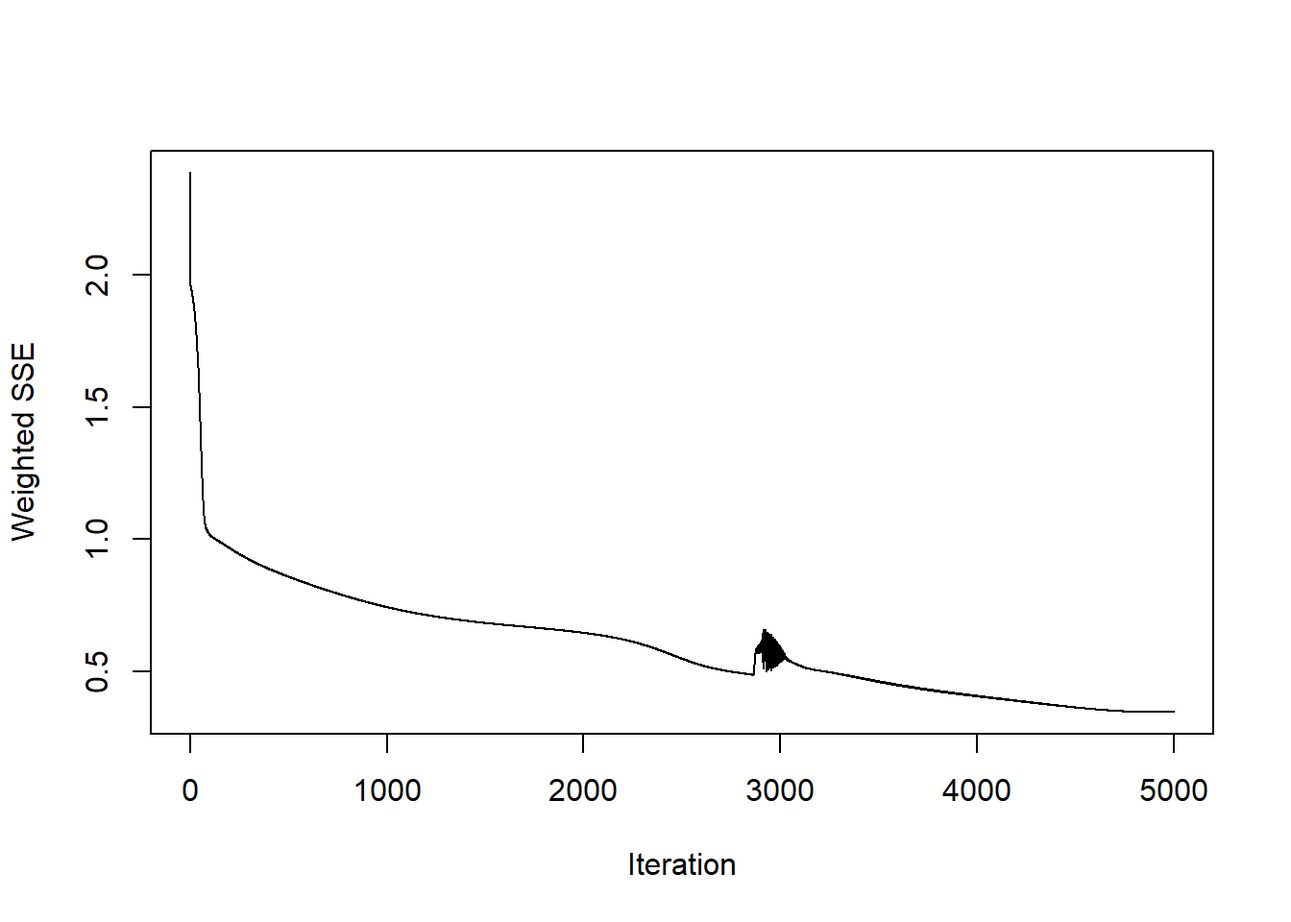
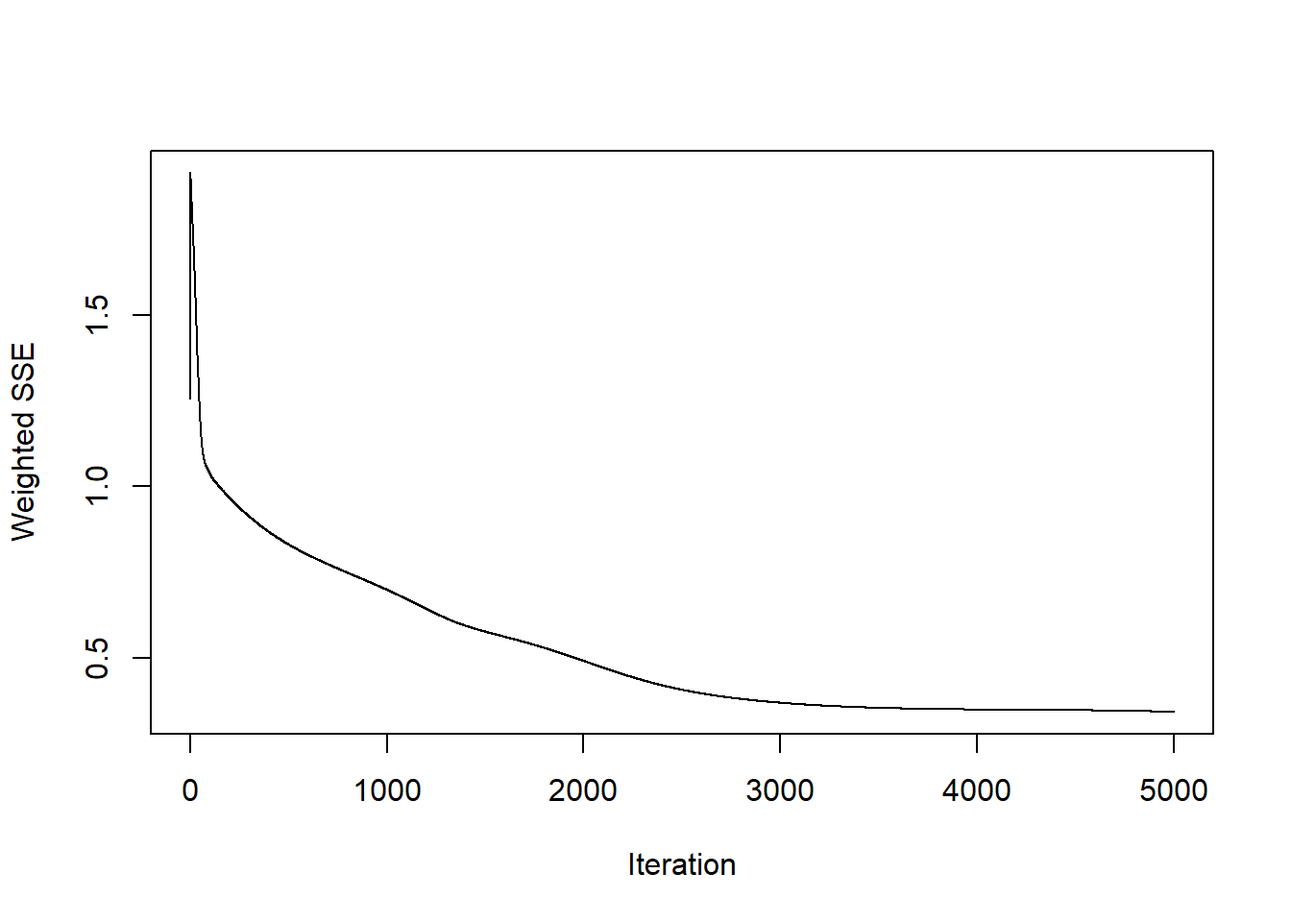
Last 10

diff --git a/docs/creacion-y-exproracion-de-serie-de-tiempo.html b/docs/creacion-y-exproracion-de-serie-de-tiempo.html
@@ -251,29 +251,29 @@ code span.wa { color: #60a0b0; font-weight: bold; font-style: italic; } /* Warni
 </ul>
 <div id="visualizacion-de-ts" class="section level3 hasAnchor" number="3.0.1">
 <h3><span class="header-section-number">3.0.1</span> - <em>Visualizacion de TS</em><a href="creacion-y-exproracion-de-serie-de-tiempo.html#visualizacion-de-ts" class="anchor-section" aria-label="Anchor link to header"></a></h3>
-<div class="plotly html-widget html-fill-item" id="htmlwidget-1c8d0c5e2c9ef5bb05f1" style="width:672px;height:480px;"></div>
-<script type="application/json" data-for="htmlwidget-1c8d0c5e2c9ef5bb05f1">{"x":{"visdat":{"618842e01314":["function () ","plotlyVisDat"]},"cur_data":"618842e01314","attrs":{"618842e01314":{"x":[2010,2010.0833333333333,2010.1666666666667,2010.25,2010.3333333333333,2010.4166666666667,2010.5,2010.5833333333333,2010.6666666666667,2010.75,2010.8333333333333,2010.9166666666667,2011,2011.0833333333333,2011.1666666666667,2011.25,2011.3333333333333,2011.4166666666667,2011.5,2011.5833333333333,2011.6666666666667,2011.75,2011.8333333333333,2011.9166666666667,2012,2012.0833333333333,2012.1666666666667,2012.25,2012.3333333333333,2012.4166666666667,2012.5,2012.5833333333333,2012.6666666666667,2012.75,2012.8333333333333,2012.9166666666667,2013,2013.0833333333333,2013.1666666666667,2013.25,2013.3333333333333,2013.4166666666667,2013.5,2013.5833333333333,2013.6666666666667,2013.75,2013.8333333333333,2013.9166666666667,2014,2014.0833333333333,2014.1666666666667,2014.25,2014.3333333333333,2014.4166666666667,2014.5,2014.5833333333333,2014.6666666666667,2014.75,2014.8333333333333,2014.9166666666667,2015,2015.0833333333333,2015.1666666666667,2015.25,2015.3333333333333,2015.4166666666667,2015.5,2015.5833333333333,2015.6666666666667,2015.75,2015.8333333333333,2015.9166666666667,2016,2016.0833333333333,2016.1666666666667,2016.25,2016.3333333333333,2016.4166666666667,2016.5,2016.5833333333333,2016.6666666666667,2016.75,2016.8333333333333,2016.9166666666667,2017,2017.0833333333333,2017.1666666666667,2017.25,2017.3333333333333,2017.4166666666667,2017.5,2017.5833333333333,2017.6666666666667,2017.75,2017.8333333333333,2017.9166666666667,2018,2018.0833333333333,2018.1666666666667,2018.25,2018.3333333333333,2018.4166666666667,2018.5,2018.5833333333333,2018.6666666666667,2018.75,2018.8333333333333,2018.9166666666667,2019,2019.0833333333333,2019.1666666666667,2019.25,2019.3333333333333,2019.4166666666667,2019.5,2019.5833333333333,2019.6666666666667,2019.75,2019.8333333333333,2019.9166666666667,2020,2020.0833333333333,2020.1666666666667,2020.25,2020.3333333333333,2020.4166666666667,2020.5,2020.5833333333333,2020.6666666666667,2020.75,2020.8333333333333,2020.9166666666667,2021,2021.0833333333333,2021.1666666666667,2021.25,2021.3333333333333,2021.4166666666667,2021.5,2021.5833333333333,2021.6666666666667,2021.75,2021.8333333333333,2021.9166666666667,2022,2022.0833333333333,2022.1666666666667,2022.25,2022.3333333333333,2022.4166666666667,2022.5,2022.5833333333333,2022.6666666666667,2022.75,2022.8333333333333,2022.9166666666667,2023,2023.0833333333333,2023.1666666666667,2023.25,2023.3333333333333,2023.4166666666667,2023.5,2023.5833333333333,2023.6666666666667,2023.75,2023.8333333333333,2023.9166666666667,2024],"y":[411,392,353,389,319,397,367,369,365,423,365,350,405,334,346,402,378,353,348,364,320,361,345,339,366,386,363,439,370,385,404,384,377,365,356,354,446,384,417,430,334,460,416,430,421,429,358,397,366,440,437,482,352,417,369,339,369,397,449,418,420,483,475,526,402,452,399,468,451,415,419,434,504,483,454,495,442,472,413,469,472,465,470,470,496,448,411,487,434,425,401,424,450,460,441,384,513,491,445,640,511,523,437,484,519,495,448,511,439,547,531,653,436,477,468,471,550,518,513,450,503,572,526,578,473,408,174,286,305,361,418,464,514,622,560,558,542,537,544,508,608,646,611,664,675,670,558,748,526,645,609,614,570,695,546,614,1131,675,711,679,1163,1130,1262,1177,1208,1264,576,628,630],"mode":"lines","line":{"color":"blue","width":2},"alpha_stroke":1,"sizes":[10,100],"spans":[1,20],"type":"scatter"}},"layout":{"margin":{"b":100,"l":100,"t":100,"r":100},"title":{"text":"Homicidios por mes en Colombia (2010 - 2024)","x":0.5},"xaxis":{"domain":[0,1],"automargin":true,"title":"Meses"},"yaxis":{"domain":[0,1],"automargin":true,"title":"Homicidios"},"hovermode":"closest","showlegend":false},"source":"A","config":{"modeBarButtonsToAdd":["hoverclosest","hovercompare"],"showSendToCloud":false},"data":[{"x":[2010,2010.0833333333333,2010.1666666666667,2010.25,2010.3333333333333,2010.4166666666667,2010.5,2010.5833333333333,2010.6666666666667,2010.75,2010.8333333333333,2010.9166666666667,2011,2011.0833333333333,2011.1666666666667,2011.25,2011.3333333333333,2011.4166666666667,2011.5,2011.5833333333333,2011.6666666666667,2011.75,2011.8333333333333,2011.9166666666667,2012,2012.0833333333333,2012.1666666666667,2012.25,2012.3333333333333,2012.4166666666667,2012.5,2012.5833333333333,2012.6666666666667,2012.75,2012.8333333333333,2012.9166666666667,2013,2013.0833333333333,2013.1666666666667,2013.25,2013.3333333333333,2013.4166666666667,2013.5,2013.5833333333333,2013.6666666666667,2013.75,2013.8333333333333,2013.9166666666667,2014,2014.0833333333333,2014.1666666666667,2014.25,2014.3333333333333,2014.4166666666667,2014.5,2014.5833333333333,2014.6666666666667,2014.75,2014.8333333333333,2014.9166666666667,2015,2015.0833333333333,2015.1666666666667,2015.25,2015.3333333333333,2015.4166666666667,2015.5,2015.5833333333333,2015.6666666666667,2015.75,2015.8333333333333,2015.9166666666667,2016,2016.0833333333333,2016.1666666666667,2016.25,2016.3333333333333,2016.4166666666667,2016.5,2016.5833333333333,2016.6666666666667,2016.75,2016.8333333333333,2016.9166666666667,2017,2017.0833333333333,2017.1666666666667,2017.25,2017.3333333333333,2017.4166666666667,2017.5,2017.5833333333333,2017.6666666666667,2017.75,2017.8333333333333,2017.9166666666667,2018,2018.0833333333333,2018.1666666666667,2018.25,2018.3333333333333,2018.4166666666667,2018.5,2018.5833333333333,2018.6666666666667,2018.75,2018.8333333333333,2018.9166666666667,2019,2019.0833333333333,2019.1666666666667,2019.25,2019.3333333333333,2019.4166666666667,2019.5,2019.5833333333333,2019.6666666666667,2019.75,2019.8333333333333,2019.9166666666667,2020,2020.0833333333333,2020.1666666666667,2020.25,2020.3333333333333,2020.4166666666667,2020.5,2020.5833333333333,2020.6666666666667,2020.75,2020.8333333333333,2020.9166666666667,2021,2021.0833333333333,2021.1666666666667,2021.25,2021.3333333333333,2021.4166666666667,2021.5,2021.5833333333333,2021.6666666666667,2021.75,2021.8333333333333,2021.9166666666667,2022,2022.0833333333333,2022.1666666666667,2022.25,2022.3333333333333,2022.4166666666667,2022.5,2022.5833333333333,2022.6666666666667,2022.75,2022.8333333333333,2022.9166666666667,2023,2023.0833333333333,2023.1666666666667,2023.25,2023.3333333333333,2023.4166666666667,2023.5,2023.5833333333333,2023.6666666666667,2023.75,2023.8333333333333,2023.9166666666667,2024],"y":[411,392,353,389,319,397,367,369,365,423,365,350,405,334,346,402,378,353,348,364,320,361,345,339,366,386,363,439,370,385,404,384,377,365,356,354,446,384,417,430,334,460,416,430,421,429,358,397,366,440,437,482,352,417,369,339,369,397,449,418,420,483,475,526,402,452,399,468,451,415,419,434,504,483,454,495,442,472,413,469,472,465,470,470,496,448,411,487,434,425,401,424,450,460,441,384,513,491,445,640,511,523,437,484,519,495,448,511,439,547,531,653,436,477,468,471,550,518,513,450,503,572,526,578,473,408,174,286,305,361,418,464,514,622,560,558,542,537,544,508,608,646,611,664,675,670,558,748,526,645,609,614,570,695,546,614,1131,675,711,679,1163,1130,1262,1177,1208,1264,576,628,630],"mode":"lines","line":{"color":"blue","width":2},"type":"scatter","marker":{"color":"rgba(31,119,180,1)","line":{"color":"rgba(31,119,180,1)"}},"error_y":{"color":"rgba(31,119,180,1)"},"error_x":{"color":"rgba(31,119,180,1)"},"xaxis":"x","yaxis":"y","frame":null}],"highlight":{"on":"plotly_click","persistent":false,"dynamic":false,"selectize":false,"opacityDim":0.20000000000000001,"selected":{"opacity":1},"debounce":0},"shinyEvents":["plotly_hover","plotly_click","plotly_selected","plotly_relayout","plotly_brushed","plotly_brushing","plotly_clickannotation","plotly_doubleclick","plotly_deselect","plotly_afterplot","plotly_sunburstclick"],"base_url":"https://plot.ly"},"evals":[],"jsHooks":[]}</script>
+<div class="plotly html-widget html-fill-item" id="htmlwidget-c933eed02372f99ff4f4" style="width:672px;height:480px;"></div>
+<script type="application/json" data-for="htmlwidget-c933eed02372f99ff4f4">{"x":{"visdat":{"74189a934d9":["function () ","plotlyVisDat"]},"cur_data":"74189a934d9","attrs":{"74189a934d9":{"x":[2010,2010.0833333333333,2010.1666666666667,2010.25,2010.3333333333333,2010.4166666666667,2010.5,2010.5833333333333,2010.6666666666667,2010.75,2010.8333333333333,2010.9166666666667,2011,2011.0833333333333,2011.1666666666667,2011.25,2011.3333333333333,2011.4166666666667,2011.5,2011.5833333333333,2011.6666666666667,2011.75,2011.8333333333333,2011.9166666666667,2012,2012.0833333333333,2012.1666666666667,2012.25,2012.3333333333333,2012.4166666666667,2012.5,2012.5833333333333,2012.6666666666667,2012.75,2012.8333333333333,2012.9166666666667,2013,2013.0833333333333,2013.1666666666667,2013.25,2013.3333333333333,2013.4166666666667,2013.5,2013.5833333333333,2013.6666666666667,2013.75,2013.8333333333333,2013.9166666666667,2014,2014.0833333333333,2014.1666666666667,2014.25,2014.3333333333333,2014.4166666666667,2014.5,2014.5833333333333,2014.6666666666667,2014.75,2014.8333333333333,2014.9166666666667,2015,2015.0833333333333,2015.1666666666667,2015.25,2015.3333333333333,2015.4166666666667,2015.5,2015.5833333333333,2015.6666666666667,2015.75,2015.8333333333333,2015.9166666666667,2016,2016.0833333333333,2016.1666666666667,2016.25,2016.3333333333333,2016.4166666666667,2016.5,2016.5833333333333,2016.6666666666667,2016.75,2016.8333333333333,2016.9166666666667,2017,2017.0833333333333,2017.1666666666667,2017.25,2017.3333333333333,2017.4166666666667,2017.5,2017.5833333333333,2017.6666666666667,2017.75,2017.8333333333333,2017.9166666666667,2018,2018.0833333333333,2018.1666666666667,2018.25,2018.3333333333333,2018.4166666666667,2018.5,2018.5833333333333,2018.6666666666667,2018.75,2018.8333333333333,2018.9166666666667,2019,2019.0833333333333,2019.1666666666667,2019.25,2019.3333333333333,2019.4166666666667,2019.5,2019.5833333333333,2019.6666666666667,2019.75,2019.8333333333333,2019.9166666666667,2020,2020.0833333333333,2020.1666666666667,2020.25,2020.3333333333333,2020.4166666666667,2020.5,2020.5833333333333,2020.6666666666667,2020.75,2020.8333333333333,2020.9166666666667,2021,2021.0833333333333,2021.1666666666667,2021.25,2021.3333333333333,2021.4166666666667,2021.5,2021.5833333333333,2021.6666666666667,2021.75,2021.8333333333333,2021.9166666666667,2022,2022.0833333333333,2022.1666666666667,2022.25,2022.3333333333333,2022.4166666666667,2022.5,2022.5833333333333,2022.6666666666667,2022.75,2022.8333333333333,2022.9166666666667,2023,2023.0833333333333,2023.1666666666667,2023.25,2023.3333333333333,2023.4166666666667,2023.5,2023.5833333333333,2023.6666666666667,2023.75,2023.8333333333333,2023.9166666666667,2024],"y":[411,392,353,389,319,397,367,369,365,423,365,350,405,334,346,402,378,353,348,364,320,361,345,339,366,386,363,439,370,385,404,384,377,365,356,354,446,384,417,430,334,460,416,430,421,429,358,397,366,440,437,482,352,417,369,339,369,397,449,418,420,483,475,526,402,452,399,468,451,415,419,434,504,483,454,495,442,472,413,469,472,465,470,470,496,448,411,487,434,425,401,424,450,460,441,384,513,491,445,640,511,523,437,484,519,495,448,511,439,547,531,653,436,477,468,471,550,518,513,450,503,572,526,578,473,408,174,286,305,361,418,464,514,622,560,558,542,537,544,508,608,646,611,664,675,670,558,748,526,645,609,614,570,695,546,614,1131,675,711,679,1163,1130,1262,1177,1208,1264,576,628,630],"mode":"lines","line":{"color":"blue","width":2},"alpha_stroke":1,"sizes":[10,100],"spans":[1,20],"type":"scatter"}},"layout":{"margin":{"b":100,"l":100,"t":100,"r":100},"title":{"text":"Homicidios por mes en Colombia (2010 - 2024)","x":0.5},"xaxis":{"domain":[0,1],"automargin":true,"title":"Meses"},"yaxis":{"domain":[0,1],"automargin":true,"title":"Homicidios"},"hovermode":"closest","showlegend":false},"source":"A","config":{"modeBarButtonsToAdd":["hoverclosest","hovercompare"],"showSendToCloud":false},"data":[{"x":[2010,2010.0833333333333,2010.1666666666667,2010.25,2010.3333333333333,2010.4166666666667,2010.5,2010.5833333333333,2010.6666666666667,2010.75,2010.8333333333333,2010.9166666666667,2011,2011.0833333333333,2011.1666666666667,2011.25,2011.3333333333333,2011.4166666666667,2011.5,2011.5833333333333,2011.6666666666667,2011.75,2011.8333333333333,2011.9166666666667,2012,2012.0833333333333,2012.1666666666667,2012.25,2012.3333333333333,2012.4166666666667,2012.5,2012.5833333333333,2012.6666666666667,2012.75,2012.8333333333333,2012.9166666666667,2013,2013.0833333333333,2013.1666666666667,2013.25,2013.3333333333333,2013.4166666666667,2013.5,2013.5833333333333,2013.6666666666667,2013.75,2013.8333333333333,2013.9166666666667,2014,2014.0833333333333,2014.1666666666667,2014.25,2014.3333333333333,2014.4166666666667,2014.5,2014.5833333333333,2014.6666666666667,2014.75,2014.8333333333333,2014.9166666666667,2015,2015.0833333333333,2015.1666666666667,2015.25,2015.3333333333333,2015.4166666666667,2015.5,2015.5833333333333,2015.6666666666667,2015.75,2015.8333333333333,2015.9166666666667,2016,2016.0833333333333,2016.1666666666667,2016.25,2016.3333333333333,2016.4166666666667,2016.5,2016.5833333333333,2016.6666666666667,2016.75,2016.8333333333333,2016.9166666666667,2017,2017.0833333333333,2017.1666666666667,2017.25,2017.3333333333333,2017.4166666666667,2017.5,2017.5833333333333,2017.6666666666667,2017.75,2017.8333333333333,2017.9166666666667,2018,2018.0833333333333,2018.1666666666667,2018.25,2018.3333333333333,2018.4166666666667,2018.5,2018.5833333333333,2018.6666666666667,2018.75,2018.8333333333333,2018.9166666666667,2019,2019.0833333333333,2019.1666666666667,2019.25,2019.3333333333333,2019.4166666666667,2019.5,2019.5833333333333,2019.6666666666667,2019.75,2019.8333333333333,2019.9166666666667,2020,2020.0833333333333,2020.1666666666667,2020.25,2020.3333333333333,2020.4166666666667,2020.5,2020.5833333333333,2020.6666666666667,2020.75,2020.8333333333333,2020.9166666666667,2021,2021.0833333333333,2021.1666666666667,2021.25,2021.3333333333333,2021.4166666666667,2021.5,2021.5833333333333,2021.6666666666667,2021.75,2021.8333333333333,2021.9166666666667,2022,2022.0833333333333,2022.1666666666667,2022.25,2022.3333333333333,2022.4166666666667,2022.5,2022.5833333333333,2022.6666666666667,2022.75,2022.8333333333333,2022.9166666666667,2023,2023.0833333333333,2023.1666666666667,2023.25,2023.3333333333333,2023.4166666666667,2023.5,2023.5833333333333,2023.6666666666667,2023.75,2023.8333333333333,2023.9166666666667,2024],"y":[411,392,353,389,319,397,367,369,365,423,365,350,405,334,346,402,378,353,348,364,320,361,345,339,366,386,363,439,370,385,404,384,377,365,356,354,446,384,417,430,334,460,416,430,421,429,358,397,366,440,437,482,352,417,369,339,369,397,449,418,420,483,475,526,402,452,399,468,451,415,419,434,504,483,454,495,442,472,413,469,472,465,470,470,496,448,411,487,434,425,401,424,450,460,441,384,513,491,445,640,511,523,437,484,519,495,448,511,439,547,531,653,436,477,468,471,550,518,513,450,503,572,526,578,473,408,174,286,305,361,418,464,514,622,560,558,542,537,544,508,608,646,611,664,675,670,558,748,526,645,609,614,570,695,546,614,1131,675,711,679,1163,1130,1262,1177,1208,1264,576,628,630],"mode":"lines","line":{"color":"blue","width":2},"type":"scatter","marker":{"color":"rgba(31,119,180,1)","line":{"color":"rgba(31,119,180,1)"}},"error_y":{"color":"rgba(31,119,180,1)"},"error_x":{"color":"rgba(31,119,180,1)"},"xaxis":"x","yaxis":"y","frame":null}],"highlight":{"on":"plotly_click","persistent":false,"dynamic":false,"selectize":false,"opacityDim":0.20000000000000001,"selected":{"opacity":1},"debounce":0},"shinyEvents":["plotly_hover","plotly_click","plotly_selected","plotly_relayout","plotly_brushed","plotly_brushing","plotly_clickannotation","plotly_doubleclick","plotly_deselect","plotly_afterplot","plotly_sunburstclick"],"base_url":"https://plot.ly"},"evals":[],"jsHooks":[]}</script>
 <p>En el grafico anterior se observa que la seria presenta una leve tendencia de <strong>2010</strong> a <strong>2020</strong>, a ´partir de este punto se evidencia un notable cambio debido a la aparicion de la pandemia y el confinamiento que sufrio la poblacion a partir del año <strong>2021</strong> se observa que el comportamiento de homicidios en colombia adquiere un incremento mas marcado con una tendencia casi exponencial, este comportamiento podria deberse a los cambios a nivel de estrategias de seguridad implementadas con el nuevo gobierno.</p>
 </div>
 <div id="analisis-por-ciclos" class="section level3 hasAnchor" number="3.0.2">
 <h3><span class="header-section-number">3.0.2</span> - <em>Analisis por Ciclos</em><a href="creacion-y-exproracion-de-serie-de-tiempo.html#analisis-por-ciclos" class="anchor-section" aria-label="Anchor link to header"></a></h3>
 <p>Se realiza la evaluacion de la serie agrupada por meses para determinar patrones de comportamiento durante cada uno de ellos, este analisis permite evidenciar estacionalidades que no son tan claras viendo la serie de tiempo cruda.</p>
 <p><img src="_main_files/figure-html/unnamed-chunk-10-1.png" width="672" style="display: block; margin: auto;" />
-<img src="_main_files/figure-html/unnamed-chunk-10-1.png" /></p>
+<img src="docs/unnamed-chunk-10-1.png" /></p>
 <p>Luego de analizar los resultados se evidencia que en el mes de abril hay mayor numero de homicidios, adicionalmente se evidencia que la media de los meses se encuentra entre los 400 y 500 homicidios.</p>
 <p>En 7 meses se observan unos valores atipicos que superan los 1000 homicidios y uno en el que se presentaron menos de 200, seria de gran valor hacer un analisis detallado de estos datos con el objetivo de entender mejor la naturaleza de estos resultados.</p>
 </div>
 <div id="identificacion-de-estacionalidades-en-los-resagos" class="section level3 hasAnchor" number="3.0.3">
 <h3><span class="header-section-number">3.0.3</span> - *Identificacion de estacionalidades en los resagos<a href="creacion-y-exproracion-de-serie-de-tiempo.html#identificacion-de-estacionalidades-en-los-resagos" class="anchor-section" aria-label="Anchor link to header"></a></h3>
 <p><img src="_main_files/figure-html/unnamed-chunk-11-1.png" width="672" style="display: block; margin: auto;" />
-<img src="_main_files/figure-html/unnamed-chunk-11-1.png" /></p>
+<img src="docs/unnamed-chunk-11-1.png" /></p>
 <p>Para el caso de la grafica de rezagos se puede afirmar que existe estacionalidad en la serie de tiempo, debido a que se reflejan patrones identificables en los datos.</p>
 </div>
 <div id="media-movil" class="section level3 hasAnchor" number="3.0.4">
 <h3><span class="header-section-number">3.0.4</span> - <em>Media Movil</em><a href="creacion-y-exproracion-de-serie-de-tiempo.html#media-movil" class="anchor-section" aria-label="Anchor link to header"></a></h3>
 <p>A continuacion se realiza el calculo de las medias moviles <strong>(SMA y EMA)</strong> de la serie de tiempo con el objetivo de obtener de forma mas clara el comportamiento de nuestra serie e identificar cual de estas se ajusta en mejor proporcion a nuestra serie.</p>
 <p><img src="_main_files/figure-html/unnamed-chunk-13-1.png" width="672" style="display: block; margin: auto;" />
-<img src="_main_files/figure-html/unnamed-chunk-13-1.png" /></p>
+<img src="docs/unnamed-chunk-13-1.png" /></p>
 <p>Durante los últimos 13 años, los homicidios en Colombia han experimentado un aumento gradual.
 Las medias móviles de 12 meses muestran que en 2010 había entre 230 y 240 asesinatos, comparados con 1000 a 850 asesinatos en los últimos meses de 2023 y enero de 2024, quintuplicando así las cifras de este fenómeno en el país.
 Se observa una tendencia a la baja al finalizar el primer semestre de cada año, seguido por un aumento durante los últimos meses, adicionalmente, se identifican dos períodos de fluctuaciones significativas:</p>
@@ -283,14 +283,14 @@ Se observa una tendencia a la baja al finalizar el primer semestre de cada año,
 </ul>
 <p>En cuanto a las líneas móviles exponenciales versus las simples, aunque no coinciden exactamente en su posición, sí lo hacen en cuanto a su tendencia, siendo la línea simple más suavizada que la exponencial.</p>
 <p><img src="_main_files/figure-html/unnamed-chunk-14-1.png" width="672" style="display: block; margin: auto;" />
-<img src="_main_files/figure-html/unnamed-chunk-14-1.png" /></p>
+<img src="docs/unnamed-chunk-14-1.png" /></p>
 <p>En congruencia con las medias móviles, se observa que la cantidad de homicidios no supera los 375 casos mensuales mensuales antes del 2020, sin embargo en el los periodos posteriores como en el 2023 se observa que se alcanzan valores tope hasta de 1000 muertes mesuales en el país a causa de los homicidios.</p>
 </div>
 <div id="componentes-de-las-series-temporales" class="section level3 hasAnchor" number="3.0.5">
 <h3><span class="header-section-number">3.0.5</span> - <strong>Componentes de las Series Temporales</strong><a href="creacion-y-exproracion-de-serie-de-tiempo.html#componentes-de-las-series-temporales" class="anchor-section" aria-label="Anchor link to header"></a></h3>
 <p>A continuacion realizaremos algunas exploraciones que nos permitiran detallar mucho mejor el analisis de nuestra serie de tiempo, mediante estas herramientas podremos identificar los componentes basicos de una serie temporal y determinar las transformaciones necesarias para mejorar ciertos comportamientos para el analisis.</p>
 <p><img src="_main_files/figure-html/unnamed-chunk-15-1.png" width="672" style="display: block; margin: auto;" />
-<img src="_main_files/figure-html/unnamed-chunk-15-1.png" /></p>
+<img src="docs/unnamed-chunk-15-1.png" /></p>
 <p>En el grafico se identifica: </p>
 <p>1- El comportamiento de la serie - El comportamiento de los residuales de la serie - El comportamiento de la estacionalidad - El comportamiento de la tendencia </p>
 <p>Al observar el comportamiento de los residuos se puede establecer que la serie es <strong>Estacionaria</strong> esto debido a que los valores tienen un comportamiento estable al rededor de <strong>Cero</strong> sin variaciones significativas en la mayor parte de la serie, adicionalmente se identifica que la serie tiene un patron estacional año a año y finalmente la tendencia presenta un comportamiento lineal de los homicidios durante los años 2010 y 2020, Posteriormente, se vuelve creciente hasta finales del 2023.</p>
@@ -310,7 +310,7 @@ Se observa una tendencia a la baja al finalizar el primer semestre de cada año,
 <h3><span class="header-section-number">3.0.7</span> - <em>Estacionalidad por año</em><a href="creacion-y-exproracion-de-serie-de-tiempo.html#estacionalidad-por-año" class="anchor-section" aria-label="Anchor link to header"></a></h3>
 <p>La estacionalidad en una serie de tiempo nos permite identificar patrones que nos permiten identificar patrones que se repiten con una frecuencia especifica, esta informacion es clave para tomar acciones sobre comportamientos que pueden estar asociados a comportamientos de la poblacion influenciado por factores externos <strong>(vacaciones, temporada de lluvia, navidad, etc.)</strong>.</p>
 <p><img src="_main_files/figure-html/unnamed-chunk-17-1.png" width="672" style="display: block; margin: auto;" />
-<img src="_main_files/figure-html/unnamed-chunk-17-1.png" /></p>
+<img src="docs/unnamed-chunk-17-1.png" /></p>
 <p>Se evidencian picos en la mayoría de los años principalmente en los meses de febrero, abril, junio y octubre, a excepción de 2023 donde se observa un comportamiento atipico en <strong>Enero</strong> mas alto de lo usual y entre <strong>Mayo y Octubre</strong> estos valores vuelven a incrementar de forma significativa y con una tendencia incremental en ese periodo.</p>
 </div>
 </div>

diff --git a/docs/aplicacion-de-modelos.html b/docs/aplicacion-de-modelos.html
@@ -258,7 +258,7 @@ code span.wa { color: #60a0b0; font-weight: bold; font-style: italic; } /* Warni
 <div id="holt-winters-multiplicativo" class="section level3 hasAnchor" number="5.1.1">
 <h3><span class="header-section-number">5.1.1</span> - Holt-Winters Multiplicativo<a href="aplicacion-de-modelos.html#holt-winters-multiplicativo" class="anchor-section" aria-label="Anchor link to header"></a></h3>
 <p><img src="_main_files/figure-html/unnamed-chunk-23-1.png" width="672" style="display: block; margin: auto;" />
-<img src="_main_files/figure-html/unnamed-chunk-23-1.png" /></p>
+<img src="docs/unnamed-chunk-23-1.png" /></p>
 <p>La gráfica nos brinda una visualización del comportamiento de las predicciones generadas por el modelo multiplicativo Holt-Winters. En un primer vistazo, podemos observar un ajuste cercano entre las predicciones y los datos base. Además, se aprecia una tendencia y estacionalidad similar entre ambas.</p>
 <p>Los valores de los parámetro obtenidos son:
 <strong>Alpha:</strong> 0.694986
@@ -270,28 +270,28 @@ code span.wa { color: #60a0b0; font-weight: bold; font-style: italic; } /* Warni
 <p><strong>Beta</strong> es un número entre 0 y 1 que determina cuanto peso se le da a las observaciones más recientes en cuanto su estacionalidad.</p>
 <p><strong>Gamma</strong> es un número entre 0 y 1 que determina cuanto peso se le da a las observaciones más recientes en cuanto su nivel (promedio móvil).</p>
 <p><img src="_main_files/figure-html/unnamed-chunk-25-1.png" width="672" style="display: block; margin: auto;" />
-<img src="_main_files/figure-html/unnamed-chunk-25-1.png" /></p>
+<img src="docs/unnamed-chunk-25-1.png" /></p>
 <p>Al modificar dando más peso al parámetro <strong>Gamma</strong> correspondiente al Nivel, se puede apreciar como las estimaciones cambian en magnitud y los picos y valles no coinciden en igual proporción como en el modelo original.</p>
 <p><img src="_main_files/figure-html/unnamed-chunk-26-1.png" width="672" style="display: block; margin: auto;" />
-<img src="_main_files/figure-html/unnamed-chunk-26-1.png" /></p>
+<img src="docs/unnamed-chunk-26-1.png" /></p>
 <p>Al modificar dando más peso al parámetro <strong>Beta</strong> correspondiente a la Estacionalidad, se puede apreciar como las estimaciones del 2024 es muy diferente a los modelos anteriores, lo cual se explica al considerar lo ocurrido en el año 2023 como consecuencia de factores externos que sólo afectan en ese periodo de tiempo.</p>
 <p><img src="_main_files/figure-html/unnamed-chunk-27-1.png" width="672" style="display: block; margin: auto;" />
-<img src="_main_files/figure-html/unnamed-chunk-27-1.png" /></p>
+<img src="docs/unnamed-chunk-27-1.png" /></p>
 <p><img src="_main_files/figure-html/unnamed-chunk-28-1.png" width="672" style="display: block; margin: auto;" /><img src="_main_files/figure-html/unnamed-chunk-28-2.png" width="672" style="display: block; margin: auto;" />
-<img src="_main_files/figure-html/unnamed-chunk-28-1.png" />
-<img src="_main_files/figure-html/unnamed-chunk-28-2.png" /></p>
+<img src="docs/unnamed-chunk-28-1.png" />
+<img src="docs/unnamed-chunk-28-2.png" /></p>
 <p>El ajuste del modelo muestra una tendencia constante, un nivel que se aproxima a los datos observados y una estacionalidad periódica entre los años.</p>
 </div>
 <div id="prediccion-holt-winters" class="section level3 hasAnchor" number="5.1.2">
 <h3><span class="header-section-number">5.1.2</span> - Prediccion Holt-Winters<a href="aplicacion-de-modelos.html#prediccion-holt-winters" class="anchor-section" aria-label="Anchor link to header"></a></h3>
 <p><img src="_main_files/figure-html/unnamed-chunk-29-1.png" width="672" style="display: block; margin: auto;" />
-<img src="_main_files/figure-html/unnamed-chunk-29-1.png" /></p>
+<img src="docs/unnamed-chunk-29-1.png" /></p>
 <p>En los valores predichos bajo el modelo <strong>Holt-winters</strong>, se implementó la predicción de 11 meses posteriores a enero 2024 con intervalos de confianza del <strong>80</strong> y <strong>95%</strong>, observando unas barreras correspondientes a <strong>1200</strong> maximo y menos de <strong>200</strong> homicidios sin 0, por observación, el número estaría entre <strong>180</strong> a <strong>150 homicidios</strong>.</p>
 </div>
 <div id="forcast-evaluation" class="section level3 hasAnchor" number="5.1.3">
 <h3><span class="header-section-number">5.1.3</span> - Forcast evaluation<a href="aplicacion-de-modelos.html#forcast-evaluation" class="anchor-section" aria-label="Anchor link to header"></a></h3>
 <p><img src="_main_files/figure-html/unnamed-chunk-30-1.png" width="672" style="display: block; margin: auto;" />
-<img src="_main_files/figure-html/unnamed-chunk-30-1.png" /></p>
+<img src="docs/unnamed-chunk-30-1.png" /></p>
 <p>Realizando una autocorrelación a través de la función ‘acf’, se establecen unos rezagos de 30, haciendo alusión a la misma obsevación en el mes anterior, y dejando denotado no tener en cuenta los NA’s en la operación.</p>
 <p>Dado lo anterior, se observa que solo un error sobresale de la franja inferior de confianza, denotando la existencia de factores externos que tienen un grado elevado de significancia en la variabilidad de los datos pudiendo atribuirse a los cambios políticos del nuevo gobierno central o la crisis sanitaria.</p>
 </div>
@@ -305,7 +305,7 @@ code span.wa { color: #60a0b0; font-weight: bold; font-style: italic; } /* Warni
 ## X-squared = 37.565, df = 30, p-value = 0.1613</code></pre>
 <p>Dado que <strong>p-value</strong> es mayor a <strong>0.05</strong> se acepta la hipotesis nula advertida en el parrafo anterior, lo que significa que en primera instacia hay una buena especificación del modelo, las predicciones son confiables y los residuos son aleatorios, lo que permite al modelo capturar adecuadamente la estructura de dependencia temporal de los datos.</p>
 <p><img src="_main_files/figure-html/unnamed-chunk-32-1.png" width="672" style="display: block; margin: auto;" />
-<img src="_main_files/figure-html/unnamed-chunk-32-1.png" /></p>
+<img src="docs/unnamed-chunk-32-1.png" /></p>
 <p>Así las cosas, graficando los residuos del modelo, se tiene que gran parte de las observaciones se encuentran alrededor de <strong>0</strong>, lo que sugiere que el modelo no tiene un sesgo sistemático en sus predicciones; captura bien la estacionalidad y la tendencia de los datos; y explica en mayor parte la variabilidad de los datos.</p>
 </div>
 <div id="modelaje-box---jenkins" class="section level3 hasAnchor" number="5.1.5">
@@ -333,14 +333,14 @@ code span.wa { color: #60a0b0; font-weight: bold; font-style: italic; } /* Warni
 <div id="prediccion-auto-arima" class="section level3 hasAnchor" number="5.2.1">
 <h3><span class="header-section-number">5.2.1</span> - Prediccion Auto-Arima<a href="aplicacion-de-modelos.html#prediccion-auto-arima" class="anchor-section" aria-label="Anchor link to header"></a></h3>
 <p><img src="_main_files/figure-html/unnamed-chunk-35-1.png" width="672" style="display: block; margin: auto;" />
-<img src="_main_files/figure-html/unnamed-chunk-35-1.png" /></p>
+<img src="docs/unnamed-chunk-35-1.png" /></p>
 <p><img src="_main_files/figure-html/unnamed-chunk-36-1.png" width="672" style="display: block; margin: auto;" /></p>
 <pre><code>## 
 ##  Shapiro-Wilk normality test
 ## 
 ## data:  residuales
 ## W = 0.85614, p-value = 1.487e-11</code></pre>
-<p><img src="_main_files/figure-html/unnamed-chunk-36-1.png" /></p>
+<p><img src="docs/unnamed-chunk-36-1.png" /></p>
 <p>Se puede observar que que hay residuos extremos tanto en la parte inferior como superior de la linea de ajuste. Adicionalmente en el test de Shapiro el valor <strong>W: 0,856</strong>, establece que los datos se alejan de un comportamiento normal, en lina con este resultado el <strong>p-value: 1.487e-11</strong> indica que existe suficiente evidencia estadistica para rechazar la hipotesis nula <strong>Ho:Los datos provienen de una distribucion normal</strong>.</p>
 <pre><code>## 
 ##  Box-Ljung test
@@ -368,7 +368,7 @@ code span.wa { color: #60a0b0; font-weight: bold; font-style: italic; } /* Warni
 <div id="visualizacion-del-modelo" class="section level3 hasAnchor" number="5.3.2">
 <h3><span class="header-section-number">5.3.2</span> - Visualizacion del Modelo<a href="aplicacion-de-modelos.html#visualizacion-del-modelo" class="anchor-section" aria-label="Anchor link to header"></a></h3>
 <p><img src="_main_files/figure-html/unnamed-chunk-42-1.png" width="672" style="display: block; margin: auto;" />
-<img src="_main_files/figure-html/unnamed-chunk-42-1.png" /></p>
+<img src="docs/unnamed-chunk-42-1.png" /></p>
 <ul>
 <li>Los puntos negros representan medidas reales de la serie de tiempo </li>
 <li>La linea azul el pronóstico de Prophet el cual muestra un ajuste significativo a los datos reales </li>
@@ -381,7 +381,7 @@ code span.wa { color: #60a0b0; font-weight: bold; font-style: italic; } /* Warni
 <p>A continuacion se presentan los componentes de modelo <strong>prophet</strong> en los que se observa la tendencia y los residuos, permitiendo identificar el comportamiento del modelo hasta la prediccion.</p>
 <p>Para el caso de la tendencia, es claro que la prediccion presenta un comportamiento ascendente para el año <strong>2024</strong>.</p>
 <p><img src="_main_files/figure-html/unnamed-chunk-43-1.png" width="672" style="display: block; margin: auto;" />
-<img src="_main_files/figure-html/unnamed-chunk-43-1.png" /></p>
+<img src="docs/unnamed-chunk-43-1.png" /></p>
 <p>La grafica de residuales de la prediccion muestran, que a finales de septiembre los homicidios en el país tienden a la baja; adicionalmente, los meses de julio y enero son donde este indicador sufre un incremento significativo en comparacion con el resto de los meses.</p>
 </div>
 <div id="comparación-entre-modelos" class="section level3 hasAnchor" number="5.3.4">
@@ -392,7 +392,7 @@ code span.wa { color: #60a0b0; font-weight: bold; font-style: italic; } /* Warni
 <h3><span class="header-section-number">5.3.5</span> - Creación del modelo Holt-Winter Train<a href="aplicacion-de-modelos.html#creación-del-modelo-holt-winter-train" class="anchor-section" aria-label="Anchor link to header"></a></h3>
 <p>Se realiza un nuevo modelo Holt-Winter para realizar el proceso de validacion de los modelos untilizando la serie de tiempo de entrenamiento con <strong>-6 meses</strong>.</p>
 <p><img src="_main_files/figure-html/unnamed-chunk-45-1.png" width="672" style="display: block; margin: auto;" />
-<img src="_main_files/figure-html/unnamed-chunk-45-1.png" /></p>
+<img src="docs/unnamed-chunk-45-1.png" /></p>
 <pre><code>## 
 ##  Augmented Dickey-Fuller Test
 ## 

diff --git a/docs/redes-neuronales-elman-y-jordan.html b/docs/redes-neuronales-elman-y-jordan.html
@@ -250,7 +250,7 @@ code span.wa { color: #60a0b0; font-weight: bold; font-style: italic; } /* Warni
 <h3><span class="header-section-number">6.1.2</span> - Evolucion de Error Elman<a href="redes-neuronales-elman-y-jordan.html#evolucion-de-error-elman" class="anchor-section" aria-label="Anchor link to header"></a></h3>
 <p>Se usa función plotIterativeError para ver evolución del error de la red a lo largo de las iteraciones de entrenamiento</p>
 <p><img src="_main_files/figure-html/unnamed-chunk-60-1.png" width="672" style="display: block; margin: auto;" />
-<img src="_main_files/figure-html/unnamed-chunk-60-1.png" /></p>
+<img src="docs/unnamed-chunk-60-1.png" /></p>
 <p>En el grafico se puede observar como el error no converge a cero rápidamente lo que es una indicacion de que el ajuste del modelo es debil.</p>
 </div>
 <div id="metricas-modelo-elman" class="section level3 hasAnchor" number="6.1.3">
@@ -261,7 +261,7 @@ code span.wa { color: #60a0b0; font-weight: bold; font-style: italic; } /* Warni
 ## 1 Holt-Winters  346.  482.  346. 56.2   56.2  2.09  1.56 0.478
 ## 2 ARIMA         252.  406.  318. 44.0   49.3  1.92  1.31 0.480
 ## 3 Prophet      -119.  349.  327. -1.27  35.4  1.97  1.13 0.463
-## 4 Elman         587. 1177. 1091. 95.4  138.   6.58  3.80 0.283</code></pre>
+## 4 Elman         117.  460.  442. 32.3   59.2  2.67  1.49 0.537</code></pre>
 </div>
 </div>
 <div id="implementacion-modelo-de-jordan" class="section level2 hasAnchor" number="6.2">
@@ -272,7 +272,7 @@ code span.wa { color: #60a0b0; font-weight: bold; font-style: italic; } /* Warni
 <h3><span class="header-section-number">6.2.1</span> - Evolucion de Errores Jordan<a href="redes-neuronales-elman-y-jordan.html#evolucion-de-errores-jordan" class="anchor-section" aria-label="Anchor link to header"></a></h3>
 <div class="sourceCode" id="cb21"><pre class="sourceCode r"><code class="sourceCode r"><span id="cb21-1"><a href="redes-neuronales-elman-y-jordan.html#cb21-1" tabindex="-1"></a><span class="fu">plotIterativeError</span>(modelJordan)</span></code></pre></div>
 <p><img src="_main_files/figure-html/unnamed-chunk-64-1.png" width="672" />
-<img src="_main_files/figure-html/unnamed-chunk-64-1.png" /></p>
+<img src="docs/unnamed-chunk-64-1.png" /></p>
 <div class="sourceCode" id="cb22"><pre class="sourceCode r"><code class="sourceCode r"><span id="cb22-1"><a href="redes-neuronales-elman-y-jordan.html#cb22-1" tabindex="-1"></a><span class="co"># Se realizan las predicciones con el modelo de Jordan</span></span>
 <span id="cb22-2"><a href="redes-neuronales-elman-y-jordan.html#cb22-2" tabindex="-1"></a>predictionsJordan <span class="ot">&lt;-</span> <span class="fu">predict</span>(modelJordan, test_inputs)</span>
 <span id="cb22-3"><a href="redes-neuronales-elman-y-jordan.html#cb22-3" tabindex="-1"></a></span>
@@ -296,13 +296,13 @@ code span.wa { color: #60a0b0; font-weight: bold; font-style: italic; } /* Warni
 <span id="cb23-13"><a href="redes-neuronales-elman-y-jordan.html#cb23-13" tabindex="-1"></a><span class="co"># Se imprime la tabla incluyendo el modelo de Elman</span></span>
 <span id="cb23-14"><a href="redes-neuronales-elman-y-jordan.html#cb23-14" tabindex="-1"></a><span class="fu">print</span>(accuracy_table_todos)</span></code></pre></div>
 <pre><code>## # A tibble: 5 × 9
-##   Model           ME  RMSE   MAE    MPE  MAPE  MASE RMSSE  ACF1
-##   &lt;chr&gt;        &lt;dbl&gt; &lt;dbl&gt; &lt;dbl&gt;  &lt;dbl&gt; &lt;dbl&gt; &lt;dbl&gt; &lt;dbl&gt; &lt;dbl&gt;
-## 1 Holt-Winters  346.  482.  346.  56.2   56.2  2.09  1.56 0.478
-## 2 ARIMA         252.  406.  318.  44.0   49.3  1.92  1.31 0.480
-## 3 Prophet      -119.  349.  327.  -1.27  35.4  1.97  1.13 0.463
-## 4 Elman         587. 1177. 1091.  95.4  138.   6.58  3.80 0.283
-## 5 Jordan        829. 1036.  927. 115.   123.   5.59  3.34 0.326</code></pre>
+##   Model           ME  RMSE   MAE    MPE  MAPE  MASE RMSSE   ACF1
+##   &lt;chr&gt;        &lt;dbl&gt; &lt;dbl&gt; &lt;dbl&gt;  &lt;dbl&gt; &lt;dbl&gt; &lt;dbl&gt; &lt;dbl&gt;  &lt;dbl&gt;
+## 1 Holt-Winters  346.  482.  346.  56.2   56.2  2.09  1.56 0.478 
+## 2 ARIMA         252.  406.  318.  44.0   49.3  1.92  1.31 0.480 
+## 3 Prophet      -119.  349.  327.  -1.27  35.4  1.97  1.13 0.463 
+## 4 Elman         117.  460.  442.  32.3   59.2  2.67  1.49 0.537 
+## 5 Jordan        800. 1212. 1018. 111.   129.   6.14  3.91 0.0181</code></pre>
 <p>De todos los modelos implementados, el que arrojó mejores resultados considerando las métricas de evaluación obtenidas para la predicción de los últimos 6 meses fue el modelo Prophet, esto considerando todas las métricas en general, pero especificamente con el RMSE que da una métrica en la escala original de los datos. </p>
 <p>De los modelos de redes neuronales el que mostró mejor comportamiento fue el modelo Elman, el cual tuvo un RMSE inferior al modelo de Jordan, pero superior al de los otros modelos. Esto indica que las redes neuronales no pudieron predecir de manera correcta la componenete de estacionalidad de la serie de tiempo.
 Como conclusión final, se considera que la escogencia del modelo para realizar predicciones en una serie de tiempo debe considerar las características propias de la serie, como son su tendencia, pero en especial su estacionalidad. En el ejercicio de escogencia se recomienda utilizar diferentes periodos de entrenamiento y evaluación, así como modificar las variables de ajsute de los modelos según las características de los componentes de la serie de tiempo”</p>

diff --git a/docs/implementacion-de-transformaciones-en-la-serie-de-tiempo.html b/docs/implementacion-de-transformaciones-en-la-serie-de-tiempo.html
@@ -252,8 +252,8 @@ code span.wa { color: #60a0b0; font-weight: bold; font-style: italic; } /* Warni
 <h3><span class="header-section-number">4.0.2</span> - <em>Transformación Logaritmica</em><a href="implementacion-de-transformaciones-en-la-serie-de-tiempo.html#transformación-logaritmica" class="anchor-section" aria-label="Anchor link to header"></a></h3>
 <p>La transformacion logaritmica permite eliminar la tendencia de serie de tiempo, esto con el objetivo de estabilizar el comportamiento de la serie y que esta no se vea afectada por este componente durante el modelamiento y la prediccion, cabe resaltar que estas transformaciones, en muchos casos deben ser revertidas, como por ejemplo al realizar validaciones cruzadas entre modelos para poder tener valores en la misma escala.</p>
 <p><img src="_main_files/figure-html/unnamed-chunk-19-1.png" width="672" style="display: block; margin: auto;" /><img src="_main_files/figure-html/unnamed-chunk-19-2.png" width="672" style="display: block; margin: auto;" />
-<img src="_main_files/figure-html/unnamed-chunk-19-1.png" />
-<img src="_main_files/figure-html/unnamed-chunk-19-2.png" /></p>
+<img src="docs/unnamed-chunk-19-1.png" />
+<img src="docs/unnamed-chunk-19-2.png" /></p>
 <p>Luego de aplicar la transformacion logaritmica a la serie de tiempo, se observa como se minimizan las diferencias en la serie, presentandonos una grafica con valores mas estables, esto nos ayuda a cumplir con el supuesto de que la serie tenga una variabilidad constante.</p>
 <p>teniendo en cuenta que la serie no es estacionaria se debe continuar con la plicacion de la diferenciacion sugerida por la prueba <strong>Dicker - Fuller</strong> para lograr una serie que cumpla las condiciones para su correcto modelamiento y predicciones.</p>
 </div>
@@ -261,7 +261,7 @@ code span.wa { color: #60a0b0; font-weight: bold; font-style: italic; } /* Warni
 <h3><span class="header-section-number">4.0.3</span> - <em>Aplicación de Diferenciación</em><a href="implementacion-de-transformaciones-en-la-serie-de-tiempo.html#aplicación-de-diferenciación" class="anchor-section" aria-label="Anchor link to header"></a></h3>
 <p>Luego de haber aplicado la transformacion logaritmica procederemos con la implementacion de la diferenciacion, para realizar este procedimiento nos apoyaremos en la funcion <strong>diff</strong>.</p>
 <p><img src="_main_files/figure-html/unnamed-chunk-20-1.png" width="672" style="display: block; margin: auto;" />
-<img src="_main_files/figure-html/unnamed-chunk-20-1.png" /></p>
+<img src="docs/unnamed-chunk-20-1.png" /></p>
 <p>Tal y como se observa en la grafica, la diferenciacion nos ha permitido tener una serie mucho mas estable eliminando las variaciones extremas para tener datos mas uniformes. </p>
 <p><strong>NOTA:</strong> esta transformacion debera ser revertida en futuros pasos para devolver los valores de la prediccion a las escalas originales</p>
 </div>
@@ -269,14 +269,14 @@ code span.wa { color: #60a0b0; font-weight: bold; font-style: italic; } /* Warni
 <h3><span class="header-section-number">4.0.4</span> - <em>Aplicación de función ACF</em><a href="implementacion-de-transformaciones-en-la-serie-de-tiempo.html#aplicación-de-función-acf" class="anchor-section" aria-label="Anchor link to header"></a></h3>
 <p>Como parte de la exploracion de la serie transformada se realiza la verificacion de las correlaciones luego de las transformaciones para comprobar la estacionaridad de la serie transformada</p>
 <p><img src="_main_files/figure-html/unnamed-chunk-21-1.png" width="672" style="display: block; margin: auto;" />
-<img src="_main_files/figure-html/unnamed-chunk-21-1.png" /></p>
+<img src="docs/unnamed-chunk-21-1.png" /></p>
 <p>El realizar la autocorrelacion nos permite identificar un comportamiento estacionario con respecto al los resagos de tiempo en la serie.</p>
 </div>
 <div id="aplicación-de-función-pacf" class="section level3 hasAnchor" number="4.0.5">
 <h3><span class="header-section-number">4.0.5</span> - <em>Aplicación de función PACF</em><a href="implementacion-de-transformaciones-en-la-serie-de-tiempo.html#aplicación-de-función-pacf" class="anchor-section" aria-label="Anchor link to header"></a></h3>
 <p>al igual que el analisis de autocorrelacion <strong>ACF</strong> el analisis de autocorrelacion parcial <strong>PACF</strong> nos permite evaluar la autoregresividad de la serie de tiempo.</p>
 <p><img src="_main_files/figure-html/unnamed-chunk-22-1.png" width="672" style="display: block; margin: auto;" />
-<img src="_main_files/figure-html/unnamed-chunk-22-1.png" /></p>
+<img src="docs/unnamed-chunk-22-1.png" /></p>
 <p>Al identificar la estructura autorregresiva en la serie, se tiene que, se necesitan 3 rezagos para predecir el valor actual de la serie.</p>
 </div>
 </div>

diff --git a/docs/análisis-exploratorio.html b/docs/análisis-exploratorio.html
@@ -274,7 +274,7 @@ code span.wa { color: #60a0b0; font-weight: bold; font-style: italic; } /* Warni
 ##       GRUPO ETARÍO DESCRIPCIÓN CONDUCTA CANTIDAD  
 ## 75152            1                    1        1 0
 ##                  0                    0        0 0</code></pre>
-<p><img src="docs/_main_files/figure-html/unnamed-chunk-6-1.png" alt="2" width="1152" style="display: block; margin: auto;" /><img src="_main_files/figure-html/unnamed-chunk-6-2.png" alt="2" width="1152" style="display: block; margin: auto;" /></p>
+<p><img src="_main_files/figure-html/unnamed-chunk-6-1.png" alt="2" width="1152" style="display: block; margin: auto;" /></p>
 <p>Clara mente se observa que no existen valores nulos o vacios en ninguna de las variables.</p>
 </div>
 <div id="resumen-de-estadisticos" class="section level3 hasAnchor" number="2.0.5">
